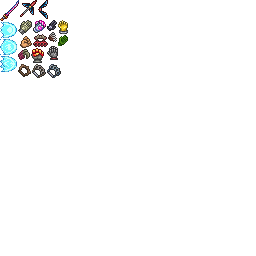
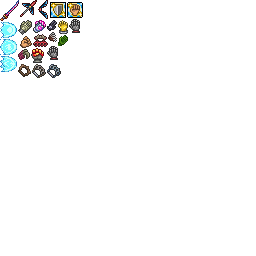
Update Parry bufficon

Changed region(s): [[0.1875, 0.0, 0.3438, 0.1562]]

diff --git a/Buffs/ParryActive.cs b/Buffs/ParryActive.cs
@@ -12,8 +12,8 @@ namespace WeaponOut.Buffs
 
         public override void SetDefaults()
         {
-            Main.buffName[Type] = "Parry Bonus";
-            Main.buffTip[Type] = "You parried an attack!";
+            Main.buffName[Type] = "Parrying Moment";
+            Main.buffTip[Type] = "Ready for parry bonus";
         }
     }
 }
